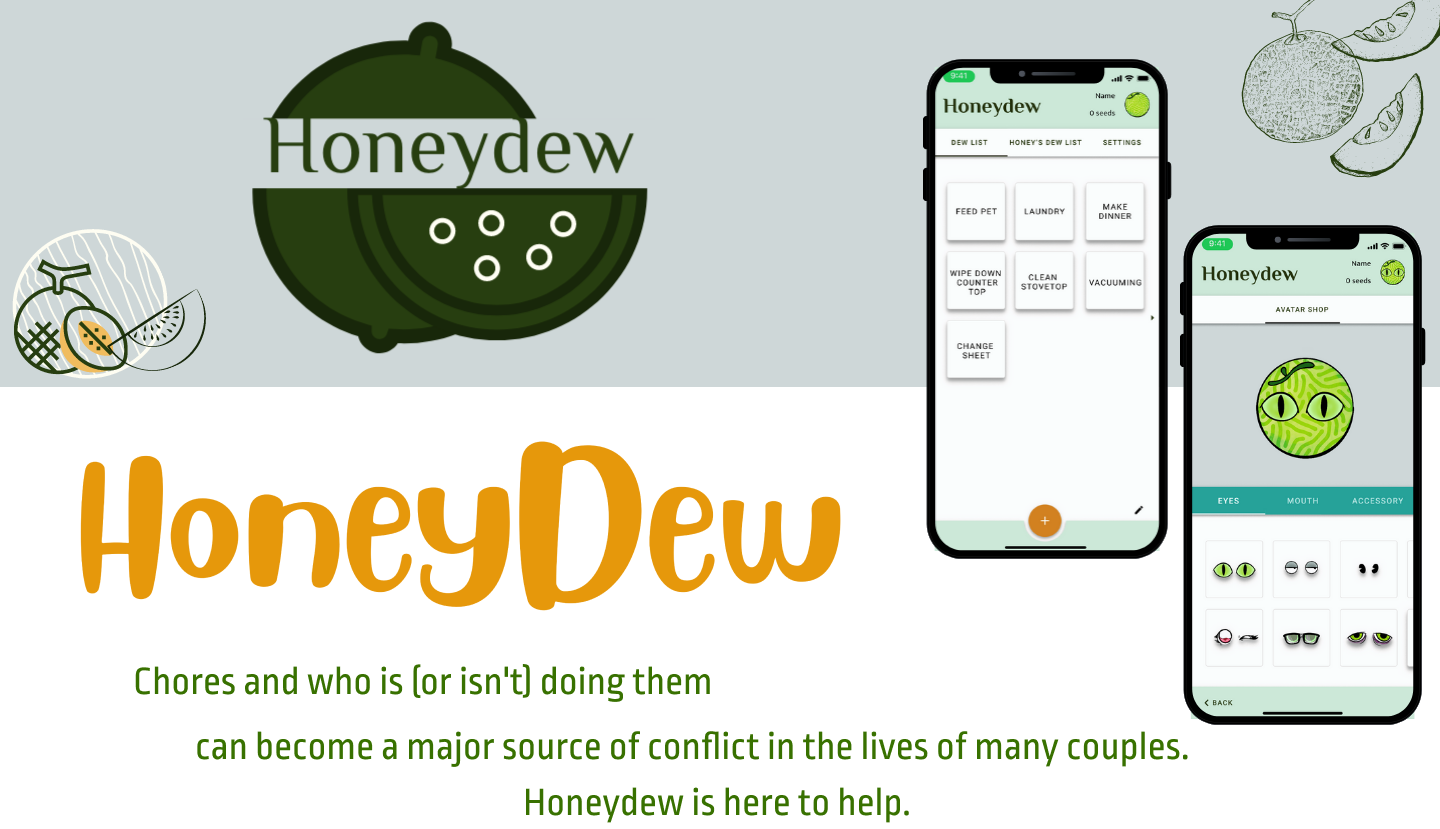
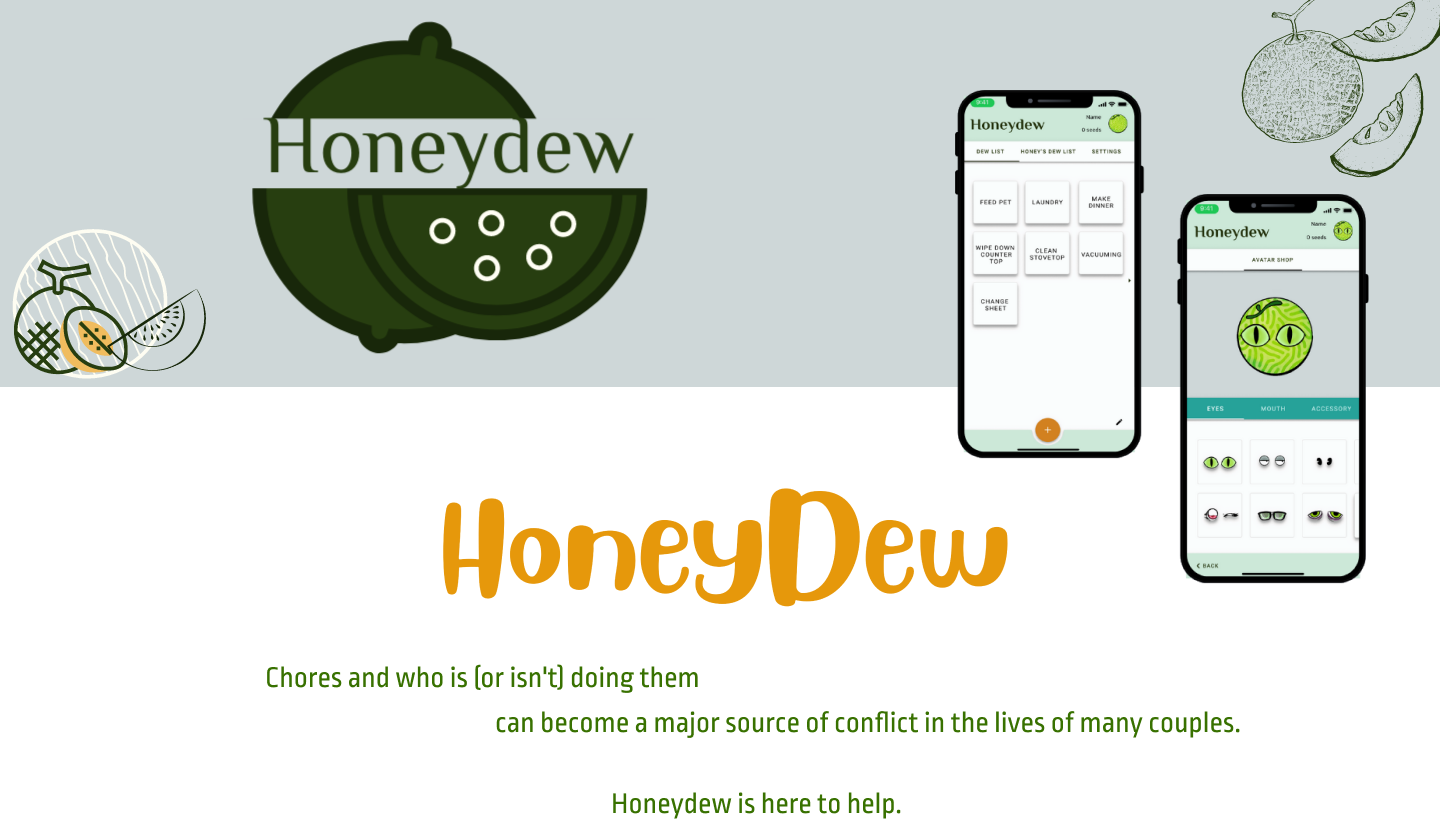
made a new header

Changed region(s): [[0.0312, 0.0603, 1.0, 0.9952]]

diff --git a/header.css b/header.css
@@ -1,0 +1,51 @@
+        .hamburgerMenu {
+            display: none;
+        }
+        
+        .header {
+            overflow: hidden;
+            border-bottom: 2px solid #BACAC6;
+        }
+        
+        .responsive {
+            width: 50%;
+            max-width: 300px;
+            height: auto;
+            position: sticky;
+            top: 13px;
+            left: 24px;
+        }
+        
+        .header a {
+            float: left;
+            color: black;
+            text-align: center;
+            padding: 12px;
+            text-decoration: none;
+            font-size: 18px;
+            line-height: 25px;
+            border-radius: 4px;
+        }
+        
+        .header a:hover {
+            background-color: #ddd;
+            color: black;
+        }
+        
+        .header a.active {
+            background-color: dodgerblue;
+            color: white;
+        }
+        
+        .header-right {
+            background-color: #BACAC6;
+            float: right;
+            position: static;
+            margin-top: 45px;
+        }
+        
+        @media screen and (max-width: 500px) {
+            .hamburgerMenu {
+                display: block;
+            }
+        }

diff --git a/header.html b/header.html
@@ -1,0 +1,27 @@
+<!DOCTYPE html>
+<html lang="en">
+
+<head>
+    <meta charset="UTF-8">
+    <meta http-equiv="X-UA-Compatible" content="IE=edge">
+    <meta name="viewport" content="width=device-width, initial-scale=1.0">
+    <link rel='stylesheet' href='header.css'>
+    <title>Document</title>
+</head>
+
+<body>
+    <img class="hamburgerMenu" src="img/Hamburger.png" />
+    <div class="header">
+        <img src="img/Jia'qian Zhao.png" alt="logo" class="responsive">
+        <div class="header-right" id="myLinks">
+            <a class='nav-link' href='./index.html'>About JZ</a>
+            <a class='nav-link' href='./UXUI.html'>UX/UI Project</a>
+            <a class='nav-link' href='./Full-stack.html'>Full-stack Project</a>
+            <a class='nav-link' href='./Contact.html'>Contact JZ</a>
+        </div>
+    </div>
+
+    <script src='header.js'></script>
+</body>
+
+</html>

diff --git a/header.js b/header.js
@@ -1,0 +1,11 @@
+const img = document.querySelector(".hamburgerMenu");
+const menu = document.querySelector("header-right");
+const open = false;
+img.onclick = () => {
+    console.log('clicked')
+    if (menu.style.display === "block") {
+        menu.style.display = "none";
+    } else {
+        menu.style.display = "block";
+    }
+}
